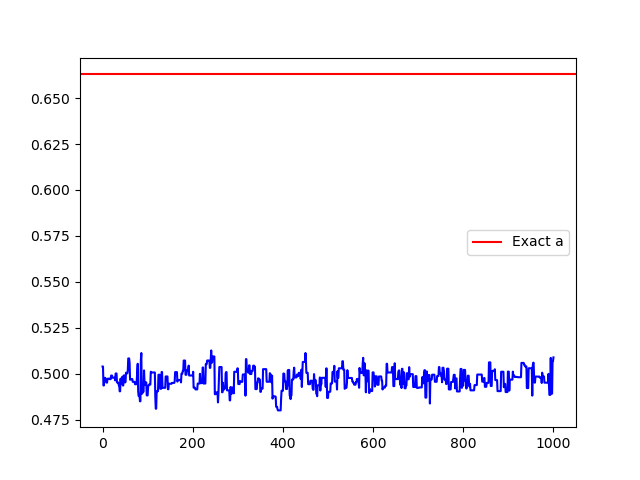
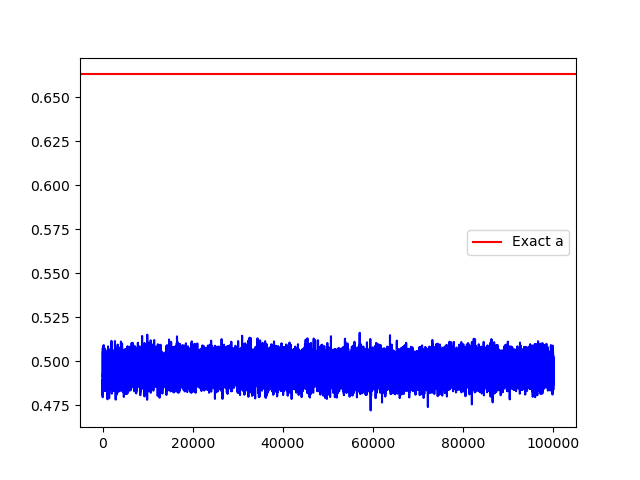
Foldering irrelelevant codes

diff --git a/Duplicate2.py b/Duplicate2.py
@@ -9,7 +9,9 @@ Acknowledged that i have to put in a ReturnLast argument in MCMC functions since
 
 Implemented Neville protocol with good success on a short run, before doing a longer run i would like to implement the Markov state plot
 
-Added markov state plot. All that is left is to add axes labels really.
+Added markov state plot. All that is left is to add axes labels really. Additionally perhaps input random selection of true values for parameters for more objective evaluation of performance.
+
+Changed phi to a+bV**2 like in Neville thesis. Changed in this and Duplicate.py. Changed back to original since somehow it is leading to worse estimates, could be case-specific so need to investigate further. Worth noting that this quick investigation was with short runs so could be the lack of ample mixing and convergence that could contribute.
 """
 
 import numpy as np
@@ -27,8 +29,8 @@ mu = 0.5  # coherent state intensity
 n = 10000  # number of data sample tuples (outcome, voltage)
 #N = 50000  # size of MCMC
 #N=1000
-#I=[2,500,50,50,500,100,100,100000] #Determines iteration number for each algorithm call
-I=[2,500,50,50,500,100,100,1000] #Smaller MCMC chain for troubleshooting
+I=[2,500,50,50,500,100,100,100000] #Determines iteration number for each algorithm call
+#I=[2,500,50,50,500,100,100,1000] #Smaller MCMC chain for troubleshooting
 
 sigma_hyper = 0.5  # variance for proposal distribution
 eta_sigma=0.005
@@ -42,7 +44,8 @@ b_sigma=0.07
 def data_draw(x, n):
     v = np.random.uniform(size=(n, ))  # draw voltage at random
     v = v[:, np.newaxis].repeat(x.shape[0], axis=1)  # duplicate the value of voltage for each value of a, b, eta
-    phi = x[np.newaxis, :, 0] * v ** 2 + x[np.newaxis, :, 1]  # a * V^2 + b, shape (n, m)
+    #phi = x[np.newaxis, :, 0] * v ** 2 + x[np.newaxis, :, 1]  # a * V^2 + b, shape (n, m)
+    phi = x[np.newaxis, :, 0] + x[np.newaxis, :, 1] * v ** 2  # a + b*V^2 + b, shape (n, m)
     exp_phi = np.exp(1j * phi)
     # we shouldn't have negative value under sqrt here because data is generated from realistic value
     sqrt_eta = np.sqrt(x[np.newaxis, :, 2])
@@ -71,7 +74,8 @@ def data_draw(x, n):
 # Y: data shape (n, 2)
 # x: scalar parameter we want to estimate, shape (m, 3)
 def loglikelihood(y, x):
-    phi = x[np.newaxis, :, 0] * y[:, np.newaxis, 1]**2 + x[np.newaxis, :, 1]  # a * V^2 + b, shape (n, m)
+    #phi = x[np.newaxis, :, 0] * y[:, np.newaxis, 1]**2 + x[np.newaxis, :, 1]  # a * V^2 + b, shape (n, m)
+    phi = x[np.newaxis, :, 0] + x[np.newaxis, :, 1] * y[:, np.newaxis, 1] ** 2  # a + b*V^2 + b, shape (n, m)
     exp_phi = np.exp(1j*phi)
     # here we can possibly test unrealistic values leading to negative sqrt, so numerical result is unreliable
     # however for such values, the prior should be such that these points will always be rejected in the acceptance test
@@ -214,7 +218,7 @@ def pi_draw(x1):
 
 y = data_draw(x=np.array([[a, b, eta]]), n=n).reshape((-1, 2))  # draw data from exact model
 y = y.reshape((-1, 2))  # reshape to remove the axis for x since we have m=1; not sure if it's relevant to have any m>1
-x = np.array([[0.1, 0.7, 0.5]])  # initial point
+x = np.array([[0.5, 0.1, 0.5]])  # initial point
 #x=np.array([[np.pi,0.7,0.5]]) #initial point array to test pi kick alg
 
 #Alg4

diff --git a/Duplicate.py b/Duplicate.py
@@ -26,6 +26,8 @@ Added MIS algorithm that works on all terms, so MIS stuff all sorted.
 Added MIS-within-Gibbs (both alpha model - meaning just a's - and full model so all terms). Both appear to work as expected.
 
 Added pi kick search, will only make an alpha model version, won't bother with the full version. Still standby that i think pi kick is a bit crap since it only works if your estimate for a is pi out, probably better for multiple phase shifters so obvs won't really work well in a single MZI unless your starting guess is far out, e.g. start at pi when the truly value is around zero, even then it should minimise after at most a few iterations. Tested so it works properly.
+
+Changed phi to a+bV**2
 """
 
 import numpy as np
@@ -57,6 +59,7 @@ def data_draw(x, n):
     v = np.random.uniform(size=(n, ))  # draw voltage at random
     v = v[:, np.newaxis].repeat(x.shape[0], axis=1)  # duplicate the value of voltage for each value of a, b, eta
     phi = x[np.newaxis, :, 0] * v ** 2 + x[np.newaxis, :, 1]  # a * V^2 + b, shape (n, m)
+    #phi = x[np.newaxis, :, 0] + x[np.newaxis, :, 1] * v ** 2 # a + b*V^2, shape (n, m)
     exp_phi = np.exp(1j * phi)
     # we shouldn't have negative value under sqrt here because data is generated from realistic value
     sqrt_eta = np.sqrt(x[np.newaxis, :, 2])
